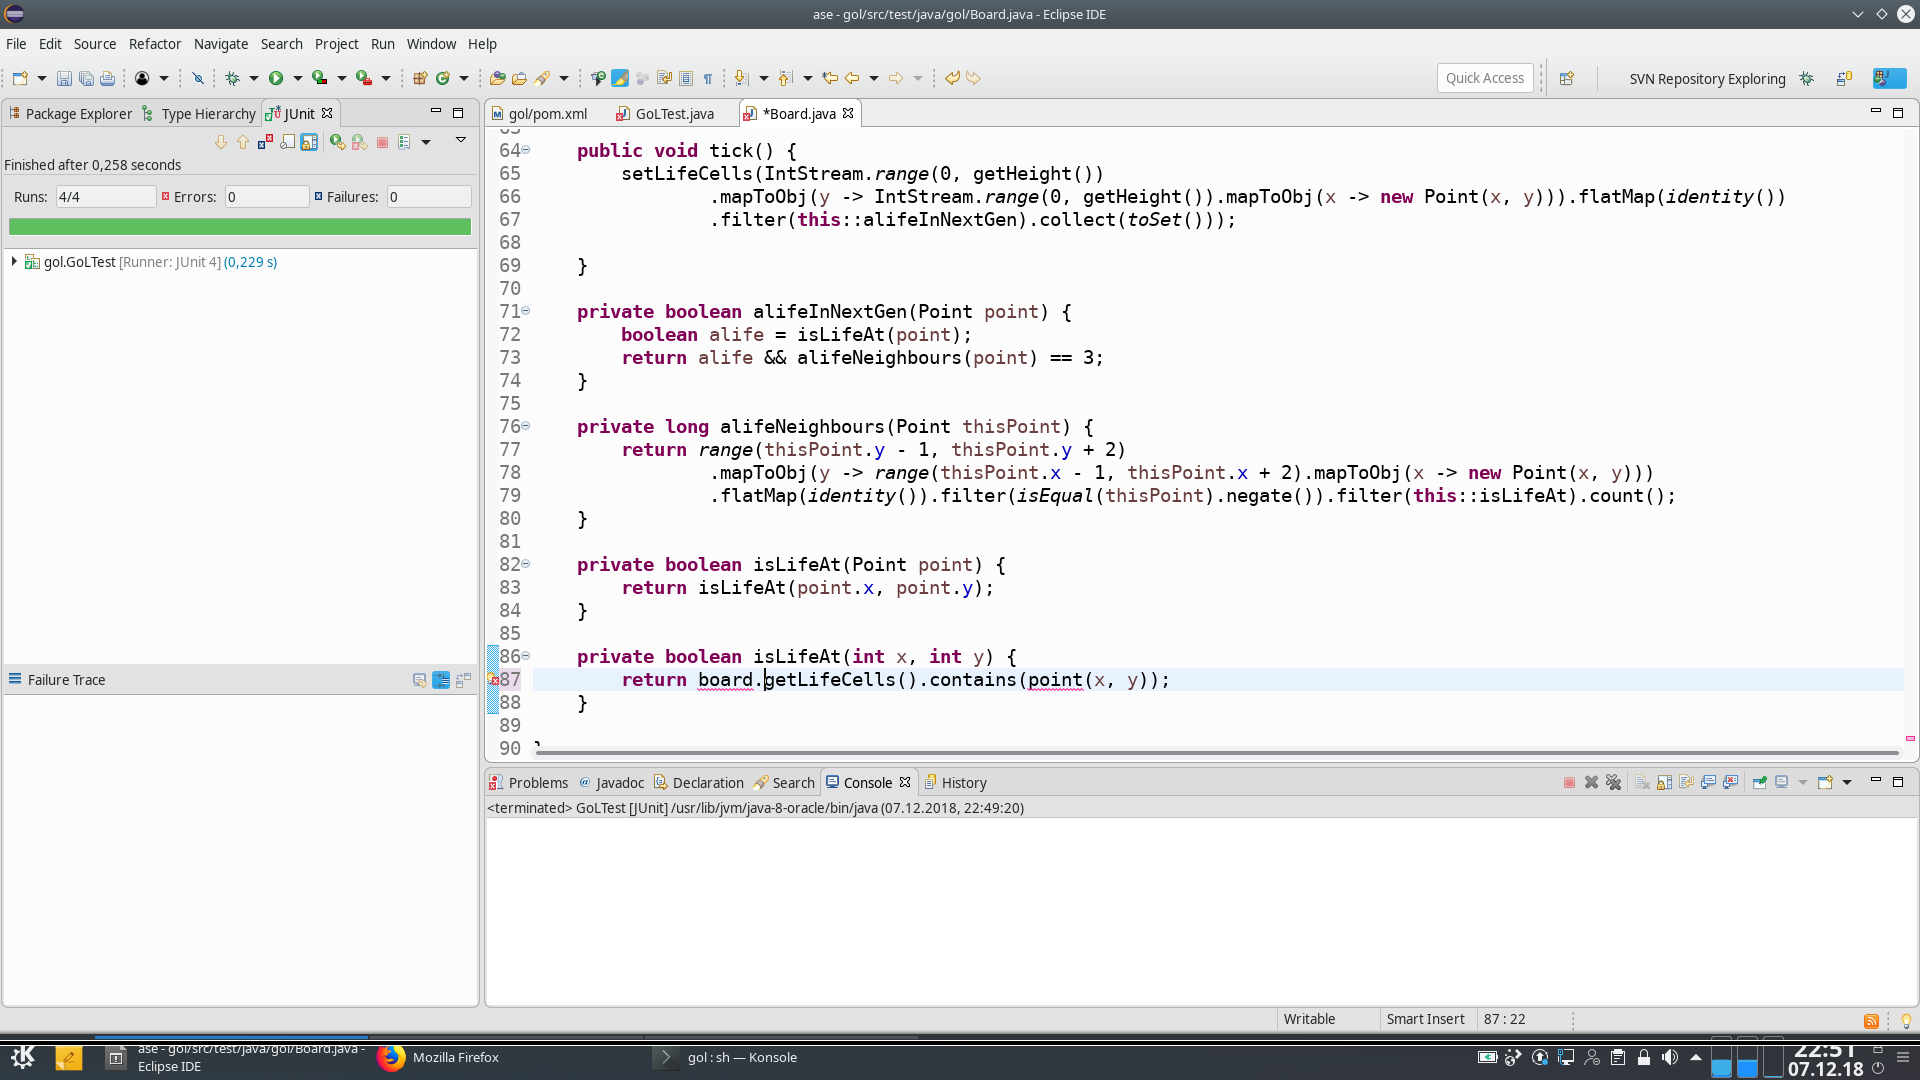
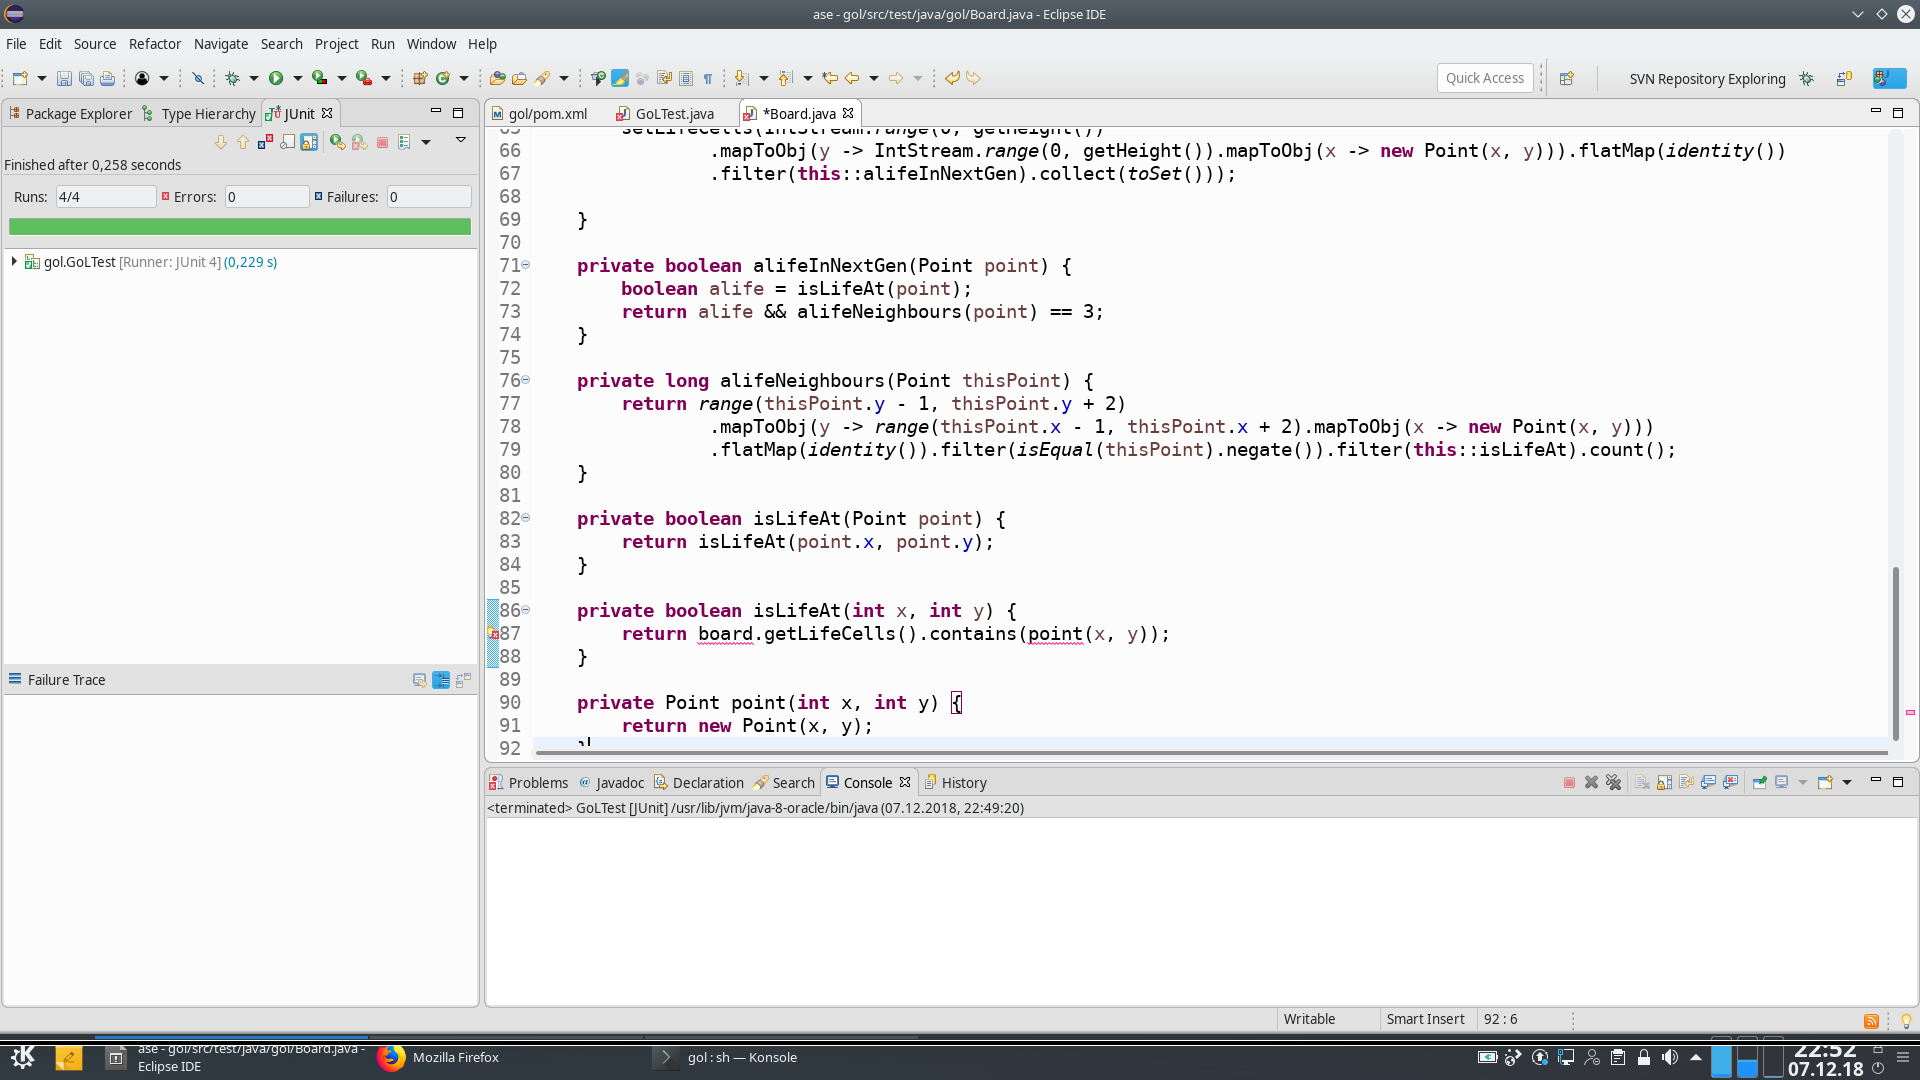
autocommit on change

diff --git a/src/test/java/gol/Board.java b/src/test/java/gol/Board.java
@@ -87,4 +87,8 @@ public class Board {
 		return board.getLifeCells().contains(point(x, y));
 	}
 
+	private Point point(int x, int y) {
+		return new Point(x, y);
+	}
+
 }
